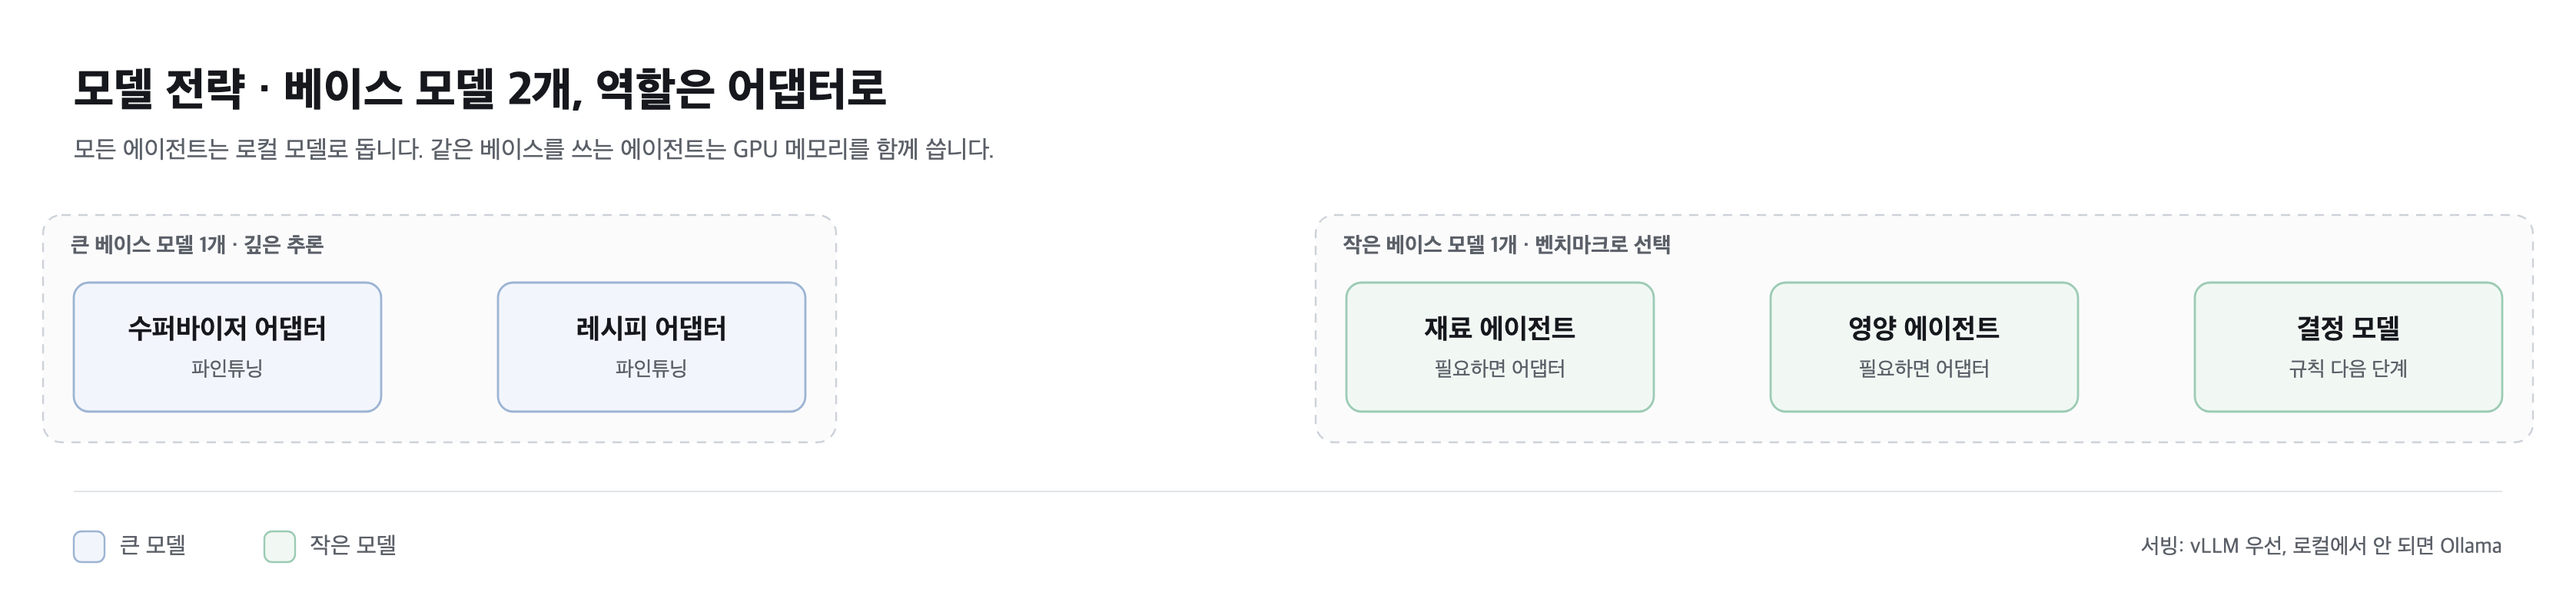
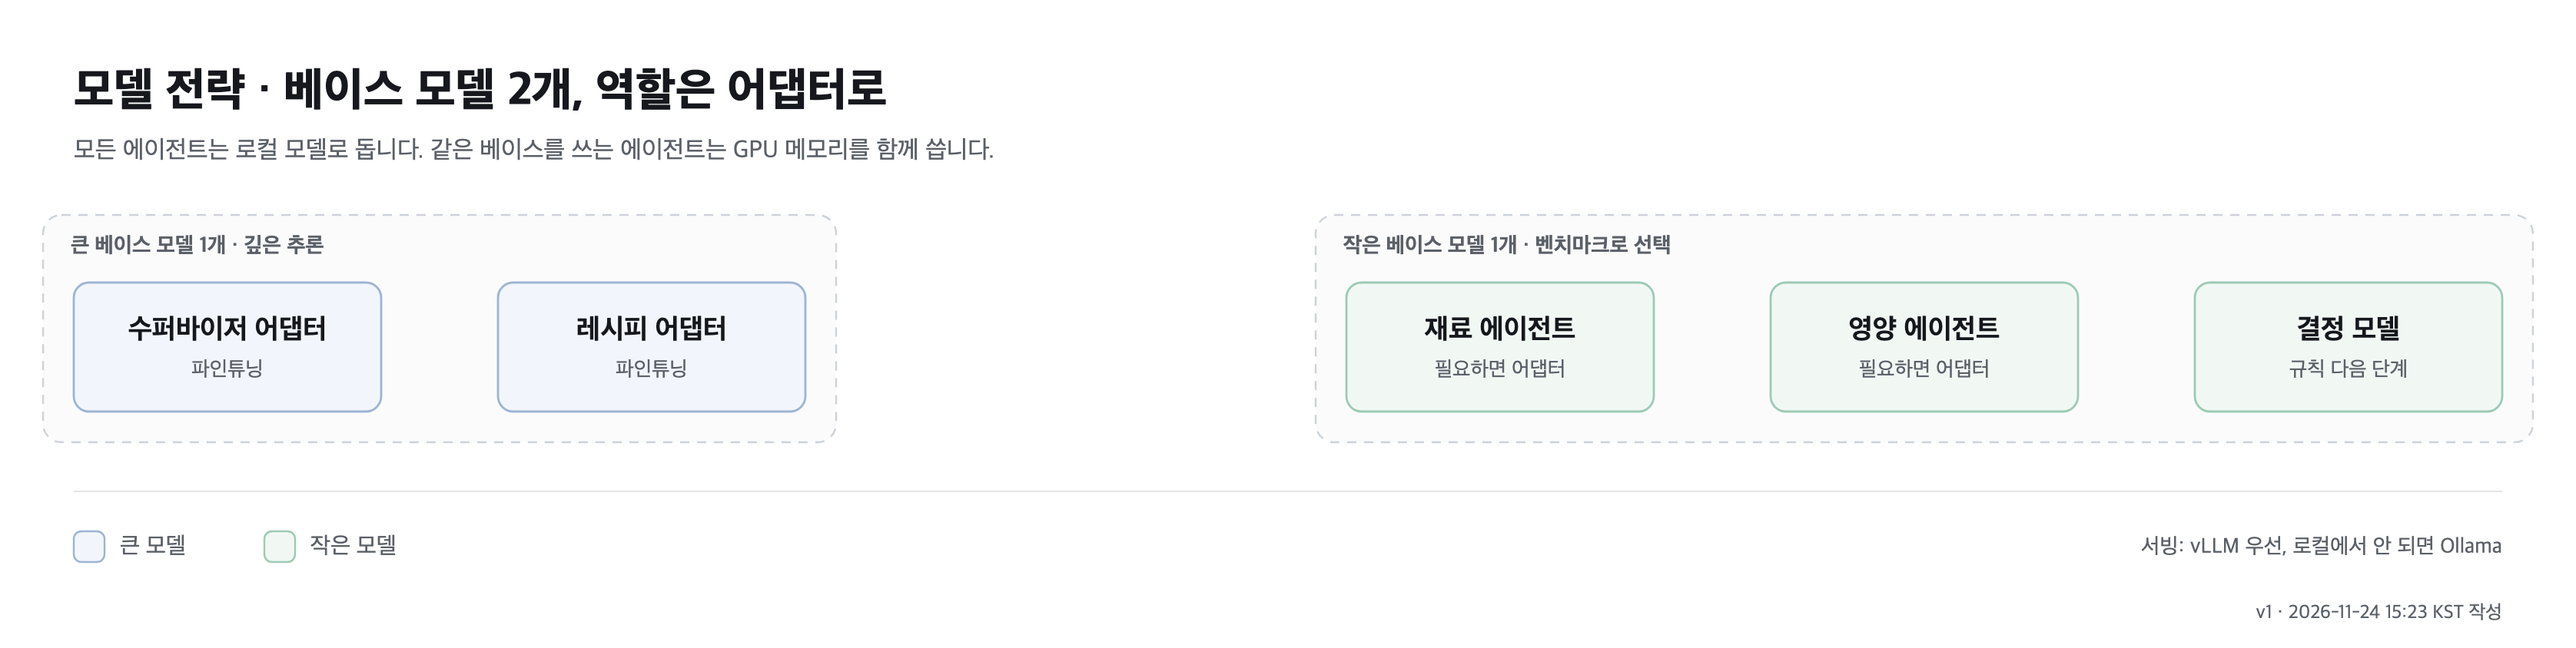
docs: 모든 그림에 버전·작성 일시 표시
- 그림 오른쪽 아래에 "v<번호> · <작성 일시>" 표시 (spec-figure)
- 명세 내용이 바뀔 때만 버전이 오르고 일시가 바뀜. 다시 렌더링만
  해서는 그대로 (SVG에 명세 지문을 기록해 비교)
- 그림 11개 다시 생성 (v1), 업무 플로우 그림은 D.12 반영으로 v2
- README 그림 관리 설명, 업무 플로우 D.12 기록

diff --git a/docs/workflow.md b/docs/workflow.md
@@ -9,7 +9,7 @@
 
 | 단계 | 완료 | 진행 중 | 대기·보류·미착수 | 진행률 |
 |---|---|---|---|---|
-| D. 설계와 준비 | 11 | 0 | 0 | 100% |
+| D. 설계와 준비 | 12 | 0 | 0 | 100% |
 | 0. 사전 결정 | 1 | 1 | 1 | 33% |
 | 1. 베이스 모델 벤치마크 | 1 | 1 | 9 | 9% |
 | 2. 기반 코드 | 13 | 0 | 1 | 93% |
@@ -65,6 +65,7 @@
 | D.9 | PR 작업 방식 정리 `추가` | 완료 | 함께 | 2026-11-24 | 2026-11-24 | 기능 코드는 브랜치 → PR → 머지. PR 본문은 PRFlow `pr-description` 절차로 작성. GitHub 토큰에 workflow 권한 추가 | PRFlow 설치, PR 자동 수정(Auto-fix) 사용 |
 | D.10 | 그림 도구 정리 `추가` | 완료 | 함께 | 2026-11-24 | 2026-11-24 | 초안·공유용 그림과 PR 변경 그림에 쓸 플러그인 설치 | Deezle Tech Diagrams(화이트보드 초안), mermaidiff(PR·커밋 변경 흐름). 확정 그림은 계속 `spec-figure` |
 | D.11 | 문서 그림 확정본 `추가` | 완료 | Claude | 2026-11-24 | 2026-11-24 | 설계 기록, 작업 계획, 업무 플로우의 Mermaid 초안 10개를 `spec-figure` 확정 그림으로 교체 | `docs/images/` PNG 10개와 명세 10개. `spec-figure`에 격자 레이아웃과 상태 색 추가 |
+| D.12 | 그림 버전·작성 일시 표시 `추가` | 완료 | Claude | 2026-11-24 | 2026-11-24 | 모든 그림 오른쪽 아래에 버전과 작성 일시 표시. 명세 내용이 바뀔 때만 버전이 오르고 일시가 바뀜 | `spec-figure` 수정, 그림 11개 다시 생성 (v1). 업무 플로우 그림은 이 업무로 v2 |
 
 ### 0. 사전 결정
 
@@ -149,6 +150,7 @@
 
 | 날짜 | 내용 |
 |---|---|
+| 2026-11-24 | D.12 그림 버전·작성 일시 표시 추가 |
 | 2026-11-24 | D.11 문서 그림 확정본 완료: Mermaid 초안 10개를 PNG로 교체 |
 | 2026-11-24 | D.10 그림 도구 정리 추가 (Deezle Tech Diagrams, mermaidiff 설치) |
 | 2026-11-24 | 선택 흐름(E1) 구현 완료(2.6~2.9). 평가 데이터 v0에 선택 역할 21개 추가 (총 97개) |

diff --git a/README.md b/README.md
@@ -71,6 +71,8 @@ uv run ruff check .     # 린트
 
 확정 그림은 명세 파일 하나에서 만듭니다. 그림에는 번호와 노드명만 넣고, 역할·모델·입출력은 표나 본문에 씁니다. 한 줄 흐름은 기본 레이아웃, 갈라지고 합쳐지는 흐름은 격자 레이아웃(`"layout": "grid"`)을 씁니다.
 
+모든 그림 오른쪽 아래에 `버전 · 작성 일시`가 붙습니다. 명세 내용이 바뀔 때만 버전이 오르고 일시가 바뀌므로, 문서 내용과 그림의 버전·일시를 비교하면 그림이 최신인지 알 수 있습니다. 내용이 같으면 다시 렌더링해도 그대로입니다.
+
 - 명세: [docs/diagrams/architecture-v2.spec.json](docs/diagrams/architecture-v2.spec.json)
 - 생성된 표: [docs/diagrams/architecture-v2.nodes.md](docs/diagrams/architecture-v2.nodes.md)
 - 생성 도구: 작성자 로컬의 `spec-figure` 스킬 (`figure.py`). Python 3와 Chrome 헤드리스로 SVG와 2배 해상도 PNG를 만듭니다.
